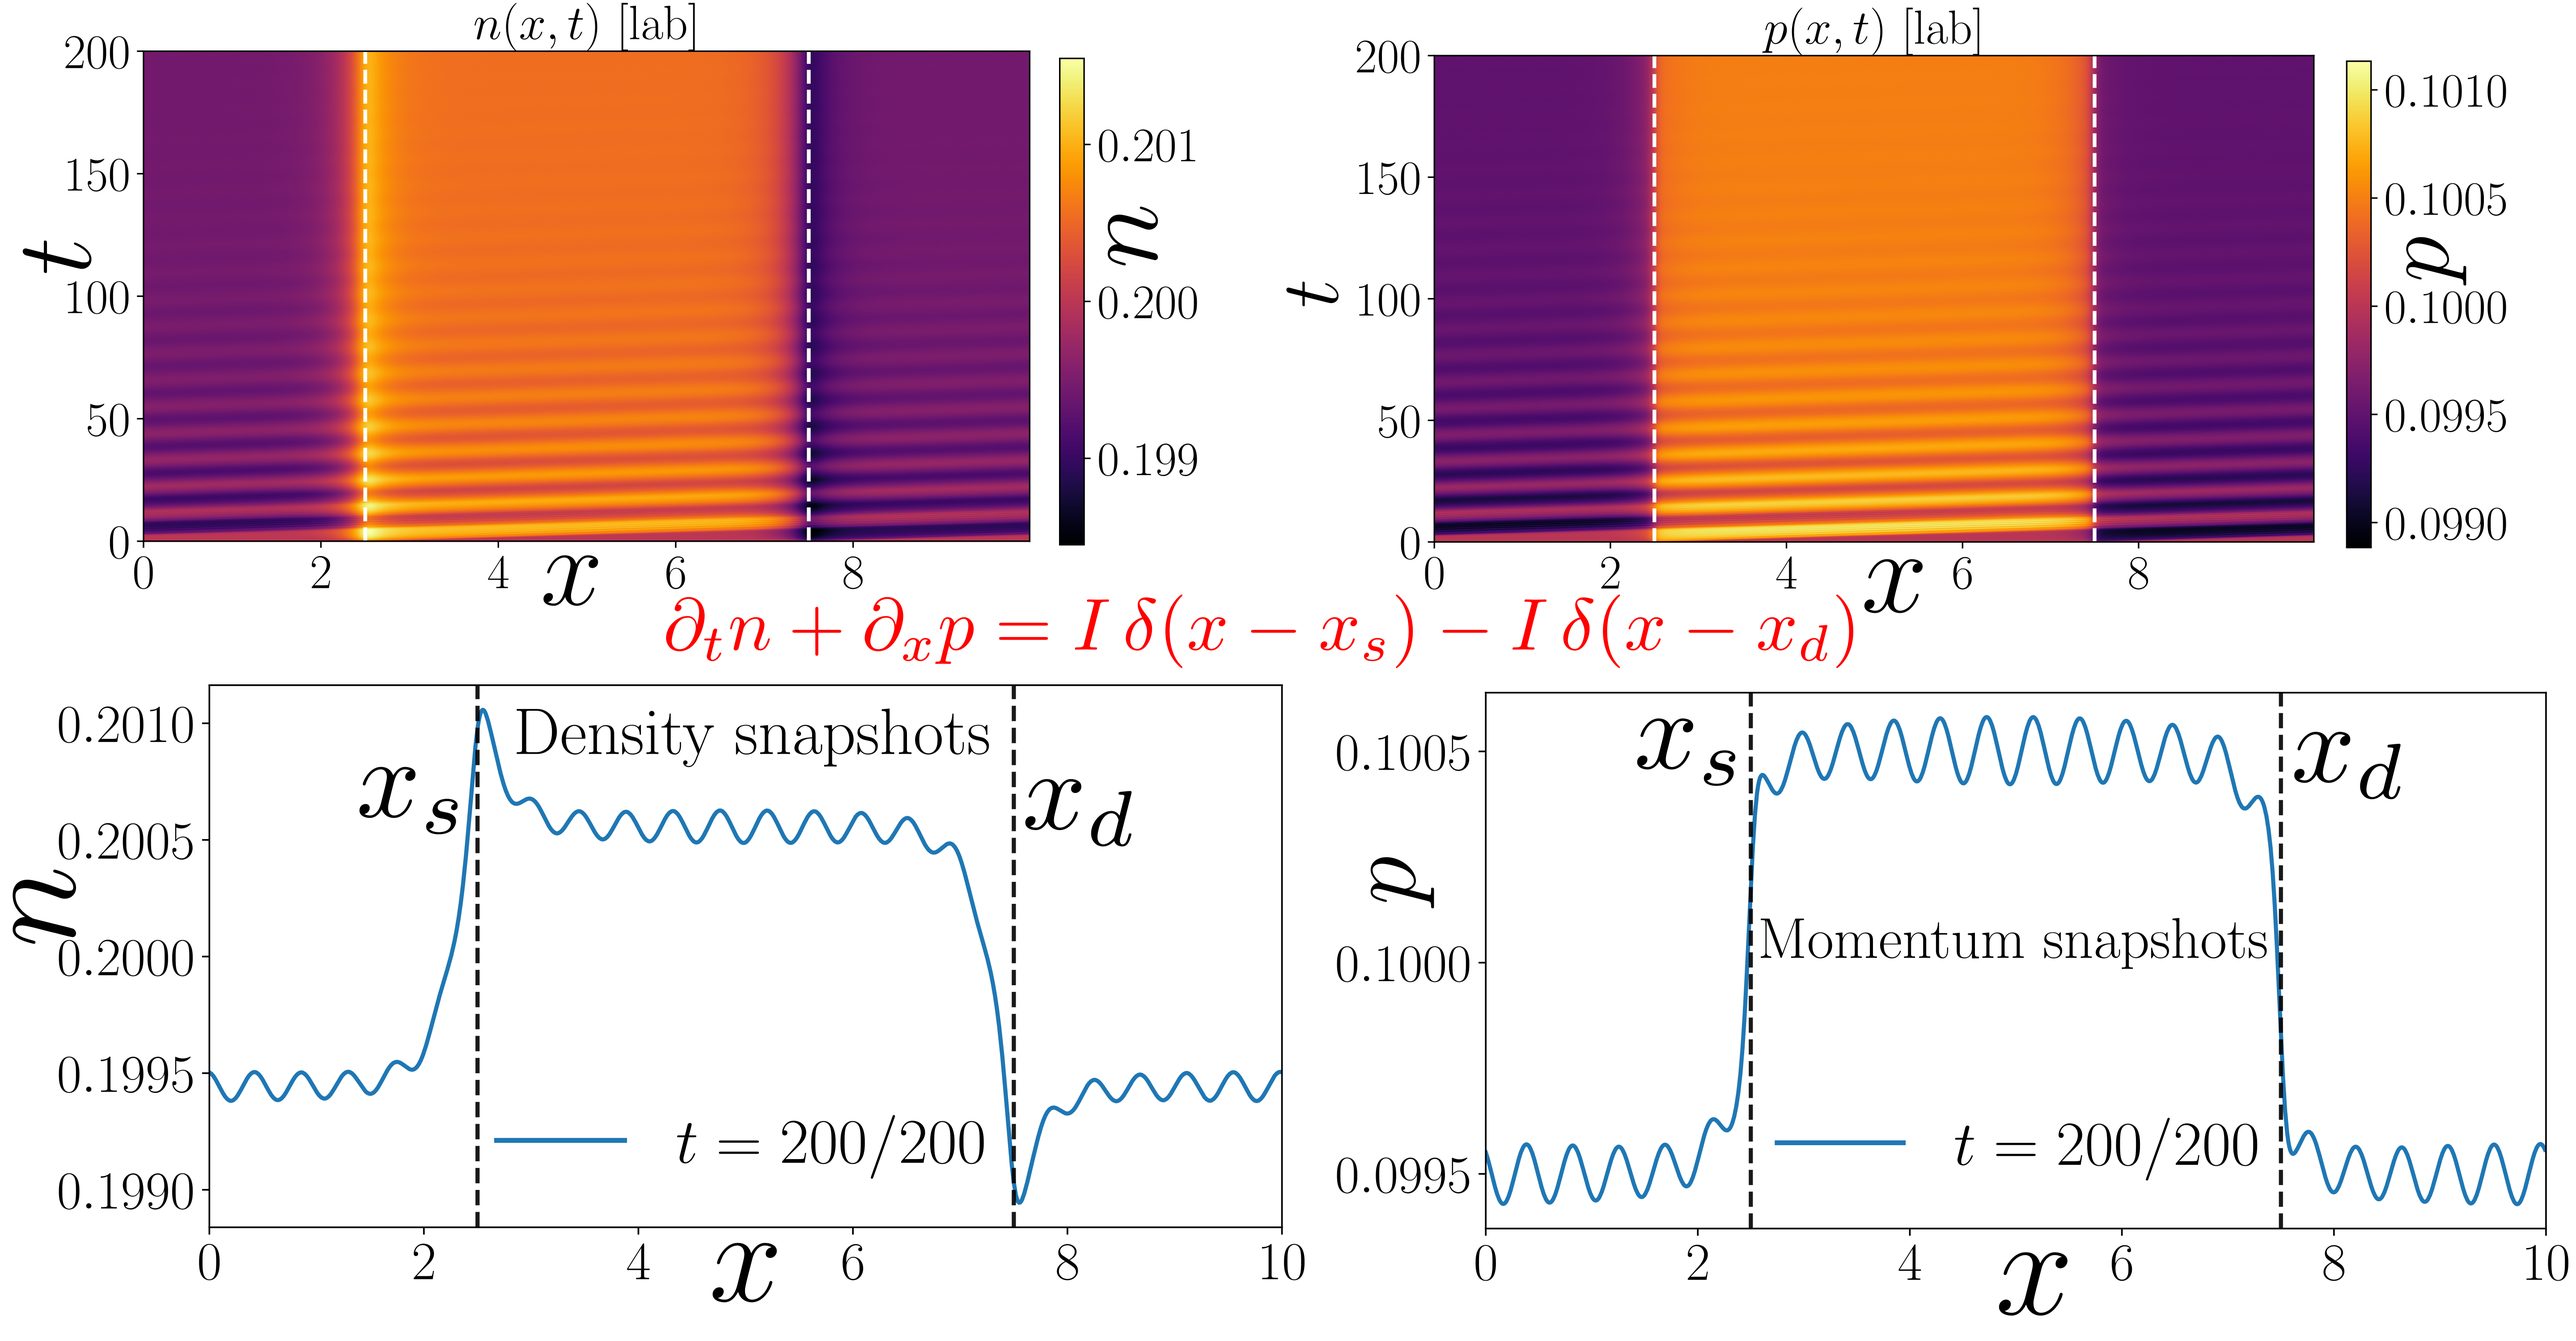
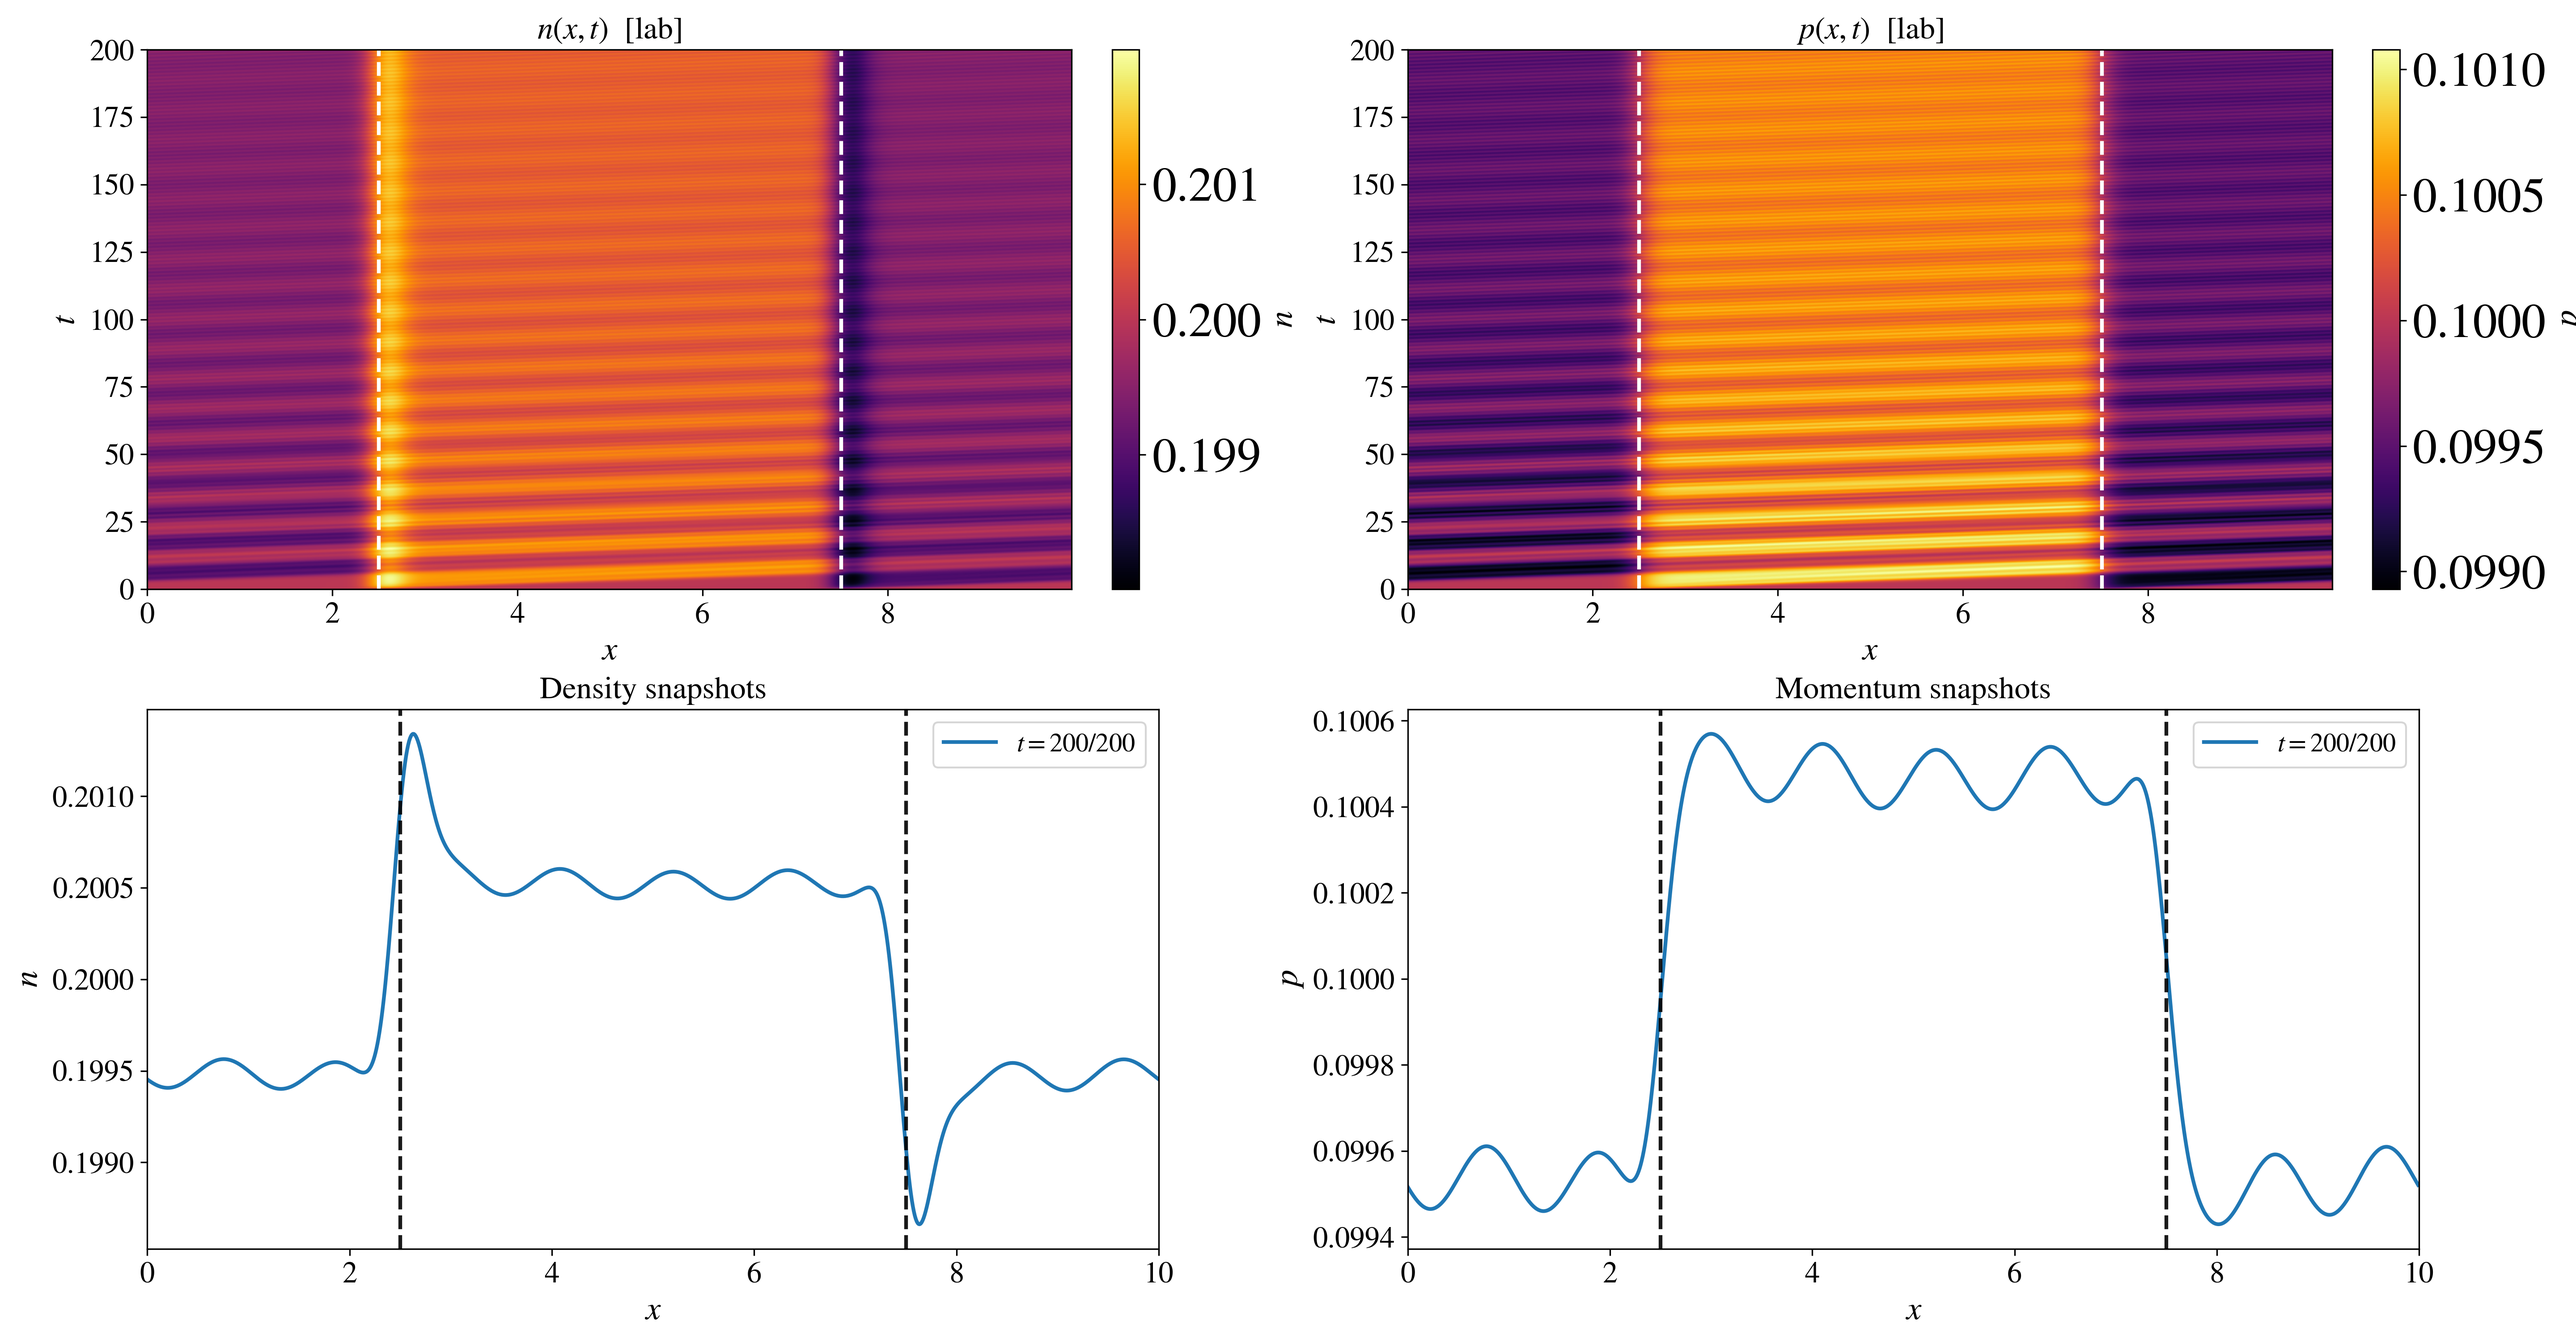
4 picks assymptotics for density/momentum

diff --git a/dn vs u_d/plot_spacetime_from_npz.py b/dn vs u_d/plot_spacetime_from_npz.py
@@ -6,33 +6,33 @@ from matplotlib.widgets import Slider
 from matplotlib.widgets import Slider
 
 # Set matplotlib parameters to match main.py
-# mpl.rcParams.update({
-#     "text.usetex": False,          # use MathText (portable)
-#     "font.family": "STIXGeneral",  # match math fonts
-#     "font.size": 14,
-#     "mathtext.fontset": "stix",
-#     "axes.unicode_minus": False,   # proper minus sign
-#     "axes.labelsize": 18,           # axis label text
-#     "xtick.labelsize": 16,          # x-tick labels
-#     "ytick.labelsize": 16,          # y-tick labels
-# })
+mpl.rcParams.update({
+    "text.usetex": False,          # use MathText (portable)
+    "font.family": "STIXGeneral",  # match math fonts
+    "font.size": 14,
+    "mathtext.fontset": "stix",
+    "axes.unicode_minus": False,   # proper minus sign
+    "axes.labelsize": 18,           # axis label text
+    "xtick.labelsize": 16,          # x-tick labels
+    "ytick.labelsize": 16,          # y-tick labels
+})
 
 
-plt.rcParams['text.usetex'] = True
-plt.rcParams['font.family'] = 'serif'
-plt.rcParams["legend.frameon"] = False
-# Publication-ready font sizes
-plt.rcParams['font.size'] = 26
-plt.rcParams['axes.labelsize'] = 26
-plt.rcParams['axes.titlesize'] = 26
-plt.rcParams['xtick.labelsize'] = 26
-plt.rcParams['ytick.labelsize'] = 26
-plt.rcParams['legend.fontsize'] = 26
-plt.rcParams['figure.titlesize'] = 26
+# plt.rcParams['text.usetex'] = True
+# plt.rcParams['font.family'] = 'serif'
+# plt.rcParams["legend.frameon"] = False
+# # Publication-ready font sizes
+# plt.rcParams['font.size'] = 26
+# plt.rcParams['axes.labelsize'] = 26
+# plt.rcParams['axes.titlesize'] = 26
+# plt.rcParams['xtick.labelsize'] = 26
+# plt.rcParams['ytick.labelsize'] = 26
+# plt.rcParams['legend.fontsize'] = 26
+# plt.rcParams['figure.titlesize'] = 26
 
 
 # Load data
-data_file = r"D:\Рабочая папка\GitHub\electronic-kapitsa-waves\dn vs u_d\multiple_u_d\w=0.14_modes_3_5_7_L10(lambda=0.0, sigma=-1.0, seed_amp_n=0.0, seed_amp_p=0.0)_Dn=0p05_Dp=0p01\out_drift_ud0p5000\data_m07_ud0p5000_ud0.5.npz"
+data_file = r"D:\Рабочая папка\GitHub\electronic-kapitsa-waves\dn vs u_d\multiple_u_d\w=0.14_modes_3_5_7_L10(lambda=0.0, sigma=-1.0, seed_amp_n=0.0, seed_amp_p=0.0)_Dn=0p00_Dp=0p02\out_drift_ud0p5000\data_m07_ud0p5000_ud0.5.npz"
 data = np.load(data_file)
 
 # Extract data
@@ -117,7 +117,7 @@ ax4.set_xlim(0, L)
 plt.tight_layout(pad=0.5, h_pad=0.3, w_pad=0.3)
 
 # Save figure
-output_file = "spacetime_panel_from_data.svg"
+output_file = "spacetime_panel_from_data.png"
 plt.savefig(output_file, dpi=300)
 print(f"Saved spacetime panel plot → {os.path.abspath(output_file)}")
 

diff --git a/dn vs u_d/main.py b/dn vs u_d/main.py
@@ -679,11 +679,11 @@ if __name__ == "__main__":
     par.w = 1.0/4
     par.include_poisson = False
     par.eps = 20.0
-    par.u_d = 0
+    par.u_d = 0.44
     par.maintain_drift = 'field'
     par.Kp = 0.15
-    par.Dn = 0.05
-    par.Dp = 0.01
+    par.Dn = 0.002
+    par.Dp = 0.02
     par.x0 = par.L/2
     par.lambda_diss = 0.0
     par.sigma_diss = -1.0
@@ -694,18 +694,18 @@ if __name__ == "__main__":
     par.nbar_amp = 0.0
     par.nbar_sigma = 120.0
     par.L = 10.0
-    par.Nx = 2048
-    par.t_final = 1000.0
-    par.n_save = 4096
+    par.Nx = 512
+    par.t_final = 200.0
+    par.n_save = 512
     par.n_floor = 1e-7
     par.dealias_23 = True
-    par.seed_amp_n = 0.00
+    par.seed_amp_n = 0.0
     par.seed_mode = 7
-    par.seed_amp_p = 0.00
+    par.seed_amp_p = 0.0
 
     par.I_SD = 1e-3
-    par.x_source = par.L/4
-    par.x_drain = 3*par.L/4
-    par.sigma_contact = 0.05
+    par.x_source = 2.5
+    par.x_drain = 7.5
+    par.sigma_contact = 0.15
     
     run_multiple_ud()
